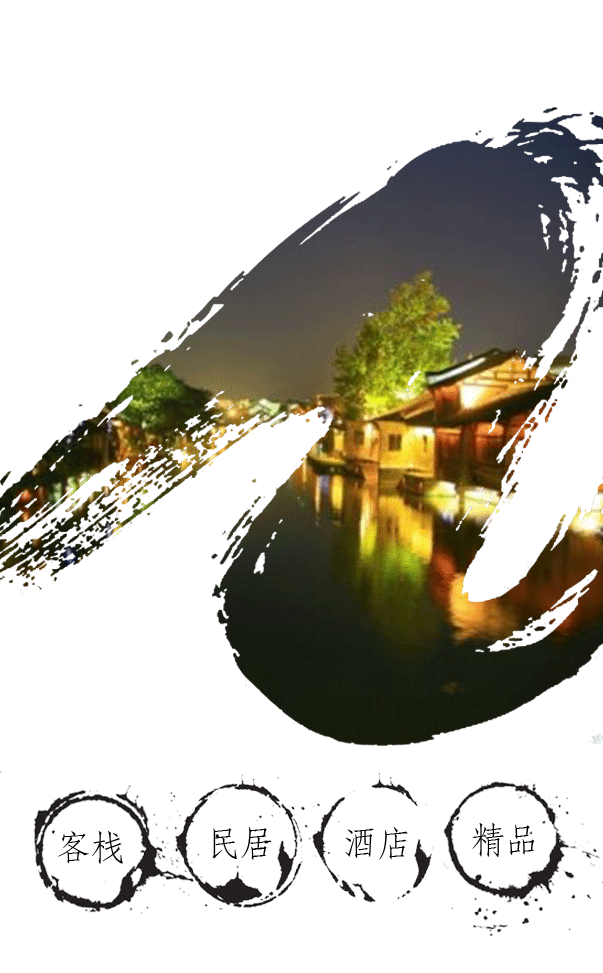
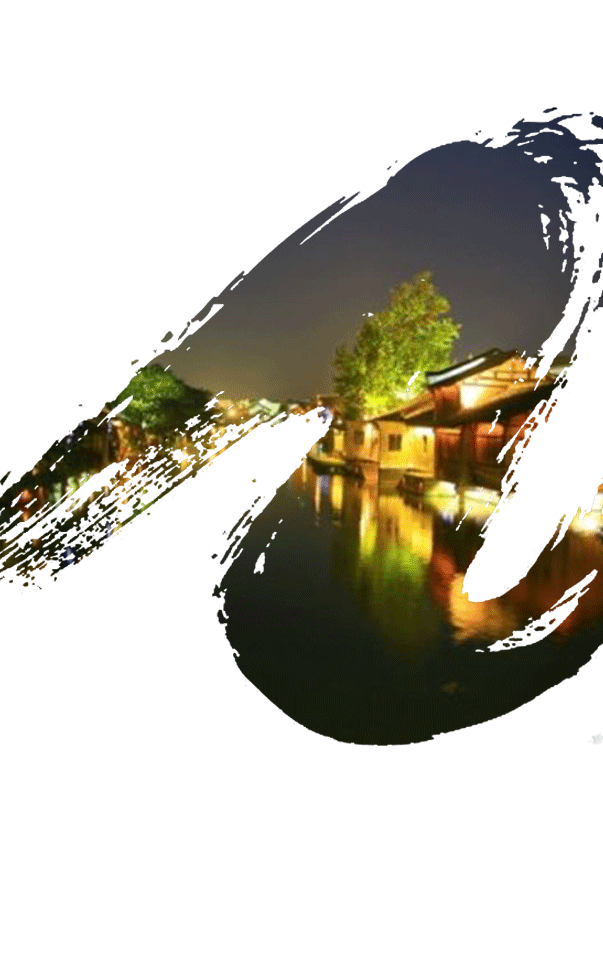
polish the stay
nearly the final page; with smooth animation; and bug fix;

diff --git a/css/style.css b/css/style.css
@@ -1,1 +1,1 @@
-body,ul{margin:0;padding:0}hr{border-color:#ccc;color:#ccc}.container{width:95%;margin:auto}.video-thumb{margin-bottom:15px;width:100%;min-height:140px;background:seagreen;position:relative;padding:0}.video-thumb .ui-icon-video{position:absolute;left:50%;top:50px;margin:10px -15px}.flat-card-list .flat-card{background:#fff;-webkit-box-shadow:0 0 8px #999;-moz-box-shadow:0 0 8px #999;box-shadow:0 0 8px #999;padding:15px;margin-bottom:15px}.flat-card-list .flat-card .name{margin:0 0 5px;color:#666}.flat-card-list .flat-card .des{font-size:12px;color:#999;margin:5px 0}.thumb-list .thumb-item{padding:5px 0;margin:0;clear:both}.thumb-list .thumb-item .thumbnail{width:20%;float:left}.thumb-list .thumb-item .info{padding:5px 10px;float:left;width:50%}.thumb-list .thumb-item .info .title{color:deepskyblue;font-size:14px;margin:0 0 3px}.thumb-list .thumb-item .info .location,.thumb-list .thumb-item .info .comment,.thumb-list .thumb-item .info .des{color:#999;font-size:10px;margin:2px 0}.thumb-list .thumb-item .price{float:left;width:23%;text-align:right}.thumb-list .thumb-item .price .number{font-size:30px;color:darkred}.thumb-list .thumb-item .price .appendix{font-size:10px;color:gray}.thumb-list .thumb-item .price .addon{font-size:10px;color:forestgreen}.nav-dot{opacity:0;-webkit-transition:all 1s;-moz-transition:all 1s;-ms-transition:all 1s;-o-transition:all 1s;transition:all 1s;-webkit-transform:scale(0.2);-moz-transform:scale(0.2);-ms-transform:scale(0.2);-o-transform:scale(0.2);transform:scale(0.2)}.nav-dot.active{opacity:1;-webkit-transform:scale(1);-moz-transform:scale(1);-ms-transform:scale(1);-o-transform:scale(1);transform:scale(1)}.nav-center{opacity:0;-webkit-transition:all 1s;-moz-transition:all 1s;-ms-transition:all 1s;-o-transition:all 1s;transition:all 1s;-webkit-transform:scale(1.2);-moz-transform:scale(1.2);-ms-transform:scale(1.2);-o-transform:scale(1.2);transform:scale(1.2)}.nav-center.active{opacity:1;-webkit-transform:scale(1);-moz-transform:scale(1);-ms-transform:scale(1);-o-transform:scale(1);transform:scale(1)}.place{margin-bottom:12%}.buy-button-div{float:right;margin-right:10%;margin-top:-4%;margin-bottom:4%}.buy-button,.buy-button:hover,.buy-button:visited,.buy-button:active{font-family:"华文仿宋","宋体",serif;font-size:1em;color:white!important;font-weight:normal!important;background-color:black;width:200px;height:50px;padding:8px 30px;text-decoration:none;text-shadow:none;border-radius:25px;z-index:999}.buy-button:hover{cursor:pointer}.master,.master-img{background:#f6f6f6 center no-repeat;position:absolute;top:0;bottom:0;left:0;right:0;height:100%}.master-img{background-size:100% auto;display:none}
+body,ul{margin:0;padding:0}body{background:#f6f6f6}hr{border-color:#ccc;color:#ccc}.container{width:95%;margin:auto}.video-thumb{margin-bottom:15px;width:100%;min-height:140px;background:seagreen;position:relative;padding:0}.video-thumb .ui-icon-video{position:absolute;left:50%;top:50px;margin:10px -15px}.flat-card-list .flat-card{background:#fff;-webkit-box-shadow:0 0 8px #999;-moz-box-shadow:0 0 8px #999;box-shadow:0 0 8px #999;padding:15px;margin-bottom:15px}.flat-card-list .flat-card .name{margin:0 0 5px;color:#666}.flat-card-list .flat-card .des{font-size:12px;color:#999;margin:5px 0}.thumb-list .thumb-item{padding:5px 0;margin:0;clear:both}.thumb-list .thumb-item .thumbnail{width:20%;float:left}.thumb-list .thumb-item .info{padding:5px 10px;float:left;width:50%}.thumb-list .thumb-item .info .title{color:deepskyblue;font-size:14px;margin:0 0 3px}.thumb-list .thumb-item .info .location,.thumb-list .thumb-item .info .comment,.thumb-list .thumb-item .info .des{color:#999;font-size:10px;margin:2px 0}.thumb-list .thumb-item .price{float:left;width:23%;text-align:right}.thumb-list .thumb-item .price .number{font-size:30px;color:darkred}.thumb-list .thumb-item .price .appendix{font-size:10px;color:gray}.thumb-list .thumb-item .price .addon{font-size:10px;color:forestgreen}.nav-dot{opacity:0;-webkit-transition:all 1s;-moz-transition:all 1s;-ms-transition:all 1s;-o-transition:all 1s;transition:all 1s;-webkit-transform:scale(0.2);-moz-transform:scale(0.2);-ms-transform:scale(0.2);-o-transform:scale(0.2);transform:scale(0.2)}.nav-dot.active{opacity:1;-webkit-transform:scale(1);-moz-transform:scale(1);-ms-transform:scale(1);-o-transform:scale(1);transform:scale(1)}.nav-center{opacity:0;-webkit-transition:all 1s;-moz-transition:all 1s;-ms-transition:all 1s;-o-transition:all 1s;transition:all 1s;-webkit-transform:scale(1.2);-moz-transform:scale(1.2);-ms-transform:scale(1.2);-o-transform:scale(1.2);transform:scale(1.2)}.nav-center.active{opacity:1;-webkit-transform:scale(1);-moz-transform:scale(1);-ms-transform:scale(1);-o-transform:scale(1);transform:scale(1)}.place{margin-bottom:12%}.buy-button-div{float:right;margin-right:10%;margin-top:-4%;margin-bottom:4%}.buy-button,.buy-button:hover,.buy-button:visited,.buy-button:active{font-family:"华文仿宋","宋体",serif;font-size:1em;color:white!important;font-weight:normal!important;background-color:black;width:200px;height:50px;padding:8px 30px;text-decoration:none;text-shadow:none;border-radius:25px;z-index:999}.buy-button:hover{cursor:pointer}.master,.master-img{background:#f6f6f6 center no-repeat;position:absolute;top:0;bottom:0;left:0;right:0;height:100%}.master-img{background-size:100% auto;display:none}.cover{position:absolute;top:0;right:0;left:0;bottom:0;background:0;background-size:100px 100px}.stay-nav-wrapper{position:absolute;bottom:0;left:0;right:0;height:110px;width:100%;margin-left:10px;clear:both}.stay-nav-wrapper .stay-nav{float:left;width:25%;height:110px;display:block;background-size:400% auto!important;background-repeat:no-repeat!important}

diff --git a/css/style.less b/css/style.less
@@ -3,6 +3,10 @@ body, ul {
   padding: 0;
 }
 
+body {
+  background: #f6f6f6;
+}
+
 hr {
   border-color: #cccccc;
   color: #cccccc;
@@ -179,4 +183,33 @@ hr {
 .master-img {
   background-size: 100% auto;
   display: none;
+}
+
+.cover {
+  position: absolute;
+  top: 0;
+  right: 0;
+  left: 0;
+  bottom: 0;
+  background: none;
+  background-size: 100px 100px;
+}
+
+.stay-nav-wrapper {
+  position: absolute;
+  bottom: 0;
+  left: 0;
+  right: 0;
+  height: 110px;
+  width: 100%;
+  margin-left: 10px;
+  clear: both;
+  .stay-nav {
+    float: left;
+    width: 25%;
+    height: 110px;
+    display: block;
+    background-size: 400% auto !important;
+    background-repeat: no-repeat !important;
+  }
 }

diff --git a/js/main.js b/js/main.js
@@ -1,0 +1,3 @@
+/**
+ * Created by lhc on 12/2/15.
+ */

diff --git a/application/views/stay/index.php b/application/views/stay/index.php
@@ -28,106 +28,43 @@
         display: none;
     }
 </style>
-<div style="background: url('<?= base_url('img/basic-bg.jpg') ?>') center no-repeat; background-size: 100% auto; position: absolute; top: 0; bottom: 0; left: 0; right: 0">
-    <div>
-        <img src="<?= base_url('img/stay/stay_logo.png') ?>" alt="" style="width: 40%; margin: 20px 15px;"/>
-        <a href="<?= site_url('home') ?>">
-        <img class="shzj-logo" src="<?= base_url('img/shzj.png') ?>" alt="诗画浙江" style="width: 25%; float: right; margin: 10px;"/>
-        </a>
-    </div>
-    <div class="container">
-        <div class="video-thumb">
-            <img src="<?= base_url('img/stay/stay_banner.png') ?>" alt="" style="width: 100%;"/>
-        </div>
-        <div class="thumb-list">
-            <div class="thumb-item">
-                <img class="thumbnail" src="<?= base_url('img/stay/stay1.png') ?>" alt=""/>
-                <div class="info">
-                    <h4 class="title">乌镇测试住宅</h4>
-                    <p class="location">XXX小区内</p>
-                    <p class="comment">123 / test</p>
-                    <p class="des">南尖岩位于监督法了解对方垃圾感觉地方分上减肥撒开飞机撒娇福建犯困睡觉啊福建省风飒风</p>
-                </div>
-                <div class="price">
-                    <span class="appendix">$</span><strong class="number">108</strong><span class="appendix"> 起</span>
-                    <br/>
-                    <span class="addon">特别优惠噢噢噢噢噢</span>
-                </div>
-            </div>
-            <div class="thumb-item">
-                <img class="thumbnail" src="<?= base_url('img/stay/stay2.png') ?>" alt=""/>
-                <div class="info">
-                    <h4 class="title">乌镇测试住宅2</h4>
-                    <p class="location">XXX小区内</p>
-                    <p class="comment">123 / test</p>
-                    <p class="des">南尖岩位于监督法了解对方垃圾感觉地方分上减肥撒开飞机撒娇福建犯困睡觉啊福建省风飒风</p>
-                </div>
-                <div class="price">
-                    <span class="appendix">$</span><strong class="number">80</strong><span class="appendix"> 起</span>
-                    <br/>
-                    <span class="addon">特别优惠噢噢噢噢噢</span>
-                </div>
-            </div>
-            <div class="thumb-item">
-                <img class="thumbnail" src="<?= base_url('img/stay/stay1.png') ?>" alt=""/>
-                <div class="info">
-                    <h4 class="title">乌镇测试住宅</h4>
-                    <p class="location">XXX小区内</p>
-                    <p class="comment">123 / test</p>
-                    <p class="des">南尖岩位于监督法了解对方垃圾感觉地方分上减肥撒开飞机撒娇福建犯困睡觉啊福建省风飒风</p>
-                </div>
-                <div class="price">
-                    <span class="appendix">$</span><strong class="number">78</strong><span class="appendix"> 起</span>
-                    <br/>
-                    <span class="addon">特别优惠噢噢噢噢噢</span>
-                </div>
-            </div>
-            <div class="thumb-item">
-                <img class="thumbnail" src="<?= base_url('img/stay/stay2.png') ?>" alt=""/>
-                <div class="info">
-                    <h4 class="title">乌镇测试住宅2</h4>
-                    <p class="location">XXX小区内</p>
-                    <p class="comment">123 / test</p>
-                    <p class="des">南尖岩位于监督法了解对方垃圾感觉地方分上减肥撒开飞机撒娇福建犯困睡觉啊福建省风飒风</p>
-                </div>
-                <div class="price">
-                    <span class="appendix">$</span><strong class="number">67</strong><span class="appendix"> 起</span>
-                    <br/>
-                    <span class="addon">特别优惠噢噢噢噢噢</span>
-                </div>
-            </div>
-        </div>
-    </div>
-</div>
-<div class="cover" style="position: absolute; top: 0; right: 0; left: 0; bottom: 0; background: url('<?= base_url('img/basic-bg.jpg') ?>') #f6f6f6 center no-repeat; background-size: 100% auto;">
+<div class="cover" style="background: url('<?= base_url('img/stay/stay_cover.jpg') ?>') center; background-size: 100% auto;">
     <div>
         <img src="<?= base_url('img/stay/stay_logo.png') ?>" alt="" style="width: 40%; margin: 20px 15px;"/>
         <a href="<?= site_url('home') ?>">
         <img src="<?= base_url('img/shzj.png') ?>" alt="诗画浙江" style="width: 25%; float: right; margin: 10px;"/>
         </a>
     </div>
-    <img src="<?= base_url('img/stay/stay_cover.png') ?>" alt="" style="width: 100%; position: absolute; bottom: 0;"/>
+    <img src="" alt="" style="width: 100%; position: absolute; top: 0;"/>
+    <div class="stay-nav-wrapper">
+        <a class="stay-nav" href="<?= site_url('stay/detail') ?>" style="background: url('<?= base_url('img/stay/stay-nav.png') ?>') 0 0;"></a>
+        <a class="stay-nav" href="<?= site_url('stay/detail') ?>" style="background: url('<?= base_url('img/stay/stay-nav.png') ?>') 33% 0;"></a>
+        <a class="stay-nav" href="<?= site_url('stay/detail') ?>" style="background: url('<?= base_url('img/stay/stay-nav.png') ?>') 66% 0;"></a>
+        <a class="stay-nav" href="<?= site_url('stay/detail') ?>" style="background: url('<?= base_url('img/stay/stay-nav.png') ?>') 99% 0;"></a>
+    </div>
 </div>
+<img id="erase-img" src="<?= base_url('img/stay/stay_cover2.jpg') ?>" alt="" style="display: none"/>
 <div class="box" id="bb">
-    <canvas id="cas" width="414" height="736"></canvas>
+    <canvas id="cas" width="1080" height="1920"></canvas>
 </div>
-<script>
-    $('.cover').on('click', function (){
-        $(this).fadeOut(500);
-    });
-</script>
-<script type="text/javascript" charset="utf-8">
+<script type="text/javascript">
+
     var canvas = document.getElementById("cas"),ctx = canvas.getContext("2d");
     var x1,y1,a=30,timeout,totimes = 100,jiange = 30;
     canvas.width = document.getElementById("bb").clientWidth;
     canvas.height = document.getElementById("bb").clientHeight;
-    var img = new Image();
-    img.src = "<?= base_url('img/stay/stay_cover2.jpg') ?>";
+    var img = document.getElementById("erase-img");
     img.onload = function(){
-        ctx.drawImage(img,0,0,canvas.width,canvas.height)
+        ctx.drawImage(img,0,0,canvas.width,canvas.height);
         //ctx.fillRect(0,0,canvas.width,canvas)
         tapClip()
     };
+
+    function enter_scene() {
+        $('#bb').fadeOut(500, function () {
+            $(this).remove()
+        })
+    }
 
     //通过修改globalCompositeOperation来达到擦除的效果
     function tapClip(){
@@ -169,9 +106,8 @@
                             }
                         }
                     }
-                    if(dd/(imgData.width*imgData.height/(jiange*jiange))<0.4){
-                        canvas.className = "noOp";
-                        canvas.parentNode.className = "noOp"
+                    if(dd/(imgData.width*imgData.height/(jiange*jiange))<0.35){
+                        enter_scene()
                     }
                 },totimes)
             });
@@ -185,7 +121,7 @@
                 ctx.moveTo(x1,y1);
                 ctx.lineTo(x2,y2);
                 ctx.stroke();
-                ctx.restore()
+                ctx.restore();
 
                 x1 = x2;
                 y1 = y2;
@@ -229,9 +165,8 @@
                             }
                         }
                     }
-                    if(dd/(imgData.width*imgData.height/(jiange*jiange))<0.4){
-                        canvas.className = "noOp";
-                        canvas.parentNode.className = "noOp"
+                    if(dd/(imgData.width*imgData.height/(jiange*jiange))<0.35){
+                        enter_scene()
                     }
                 },totimes)
 

diff --git a/application/views/stay/detail.php b/application/views/stay/detail.php
@@ -1,0 +1,71 @@
+<div class="cover">
+    <div>
+        <img src="<?= base_url('img/stay/stay_logo.png') ?>" alt="" style="width: 40%; margin: 20px 15px;"/>
+        <a href="<?= site_url('home') ?>">
+        <img class="shzj-logo" src="<?= base_url('img/shzj.png') ?>" alt="诗画浙江" style="width: 25%; float: right; margin: 10px;"/>
+        </a>
+    </div>
+    <div class="container">
+        <div class="video-thumb">
+            <img src="<?= base_url('img/stay/stay_banner.png') ?>" alt="" style="width: 100%;"/>
+        </div>
+        <div class="thumb-list">
+            <div class="thumb-item">
+                <img class="thumbnail" src="<?= base_url('img/stay/stay1.png') ?>" alt=""/>
+                <div class="info">
+                    <h4 class="title">乌镇测试住宅</h4>
+                    <p class="location">XXX小区内</p>
+                    <p class="comment">123 / test</p>
+                    <p class="des">南尖岩位于监督法了解对方垃圾感觉地方分上减肥撒开飞机撒娇福建犯困睡觉啊福建省风飒风</p>
+                </div>
+                <div class="price">
+                    <span class="appendix">$</span><strong class="number">108</strong><span class="appendix"> 起</span>
+                    <br/>
+                    <span class="addon">特别优惠噢噢噢噢噢</span>
+                </div>
+            </div>
+            <div class="thumb-item">
+                <img class="thumbnail" src="<?= base_url('img/stay/stay2.png') ?>" alt=""/>
+                <div class="info">
+                    <h4 class="title">乌镇测试住宅2</h4>
+                    <p class="location">XXX小区内</p>
+                    <p class="comment">123 / test</p>
+                    <p class="des">南尖岩位于监督法了解对方垃圾感觉地方分上减肥撒开飞机撒娇福建犯困睡觉啊福建省风飒风</p>
+                </div>
+                <div class="price">
+                    <span class="appendix">$</span><strong class="number">80</strong><span class="appendix"> 起</span>
+                    <br/>
+                    <span class="addon">特别优惠噢噢噢噢噢</span>
+                </div>
+            </div>
+            <div class="thumb-item">
+                <img class="thumbnail" src="<?= base_url('img/stay/stay1.png') ?>" alt=""/>
+                <div class="info">
+                    <h4 class="title">乌镇测试住宅</h4>
+                    <p class="location">XXX小区内</p>
+                    <p class="comment">123 / test</p>
+                    <p class="des">南尖岩位于监督法了解对方垃圾感觉地方分上减肥撒开飞机撒娇福建犯困睡觉啊福建省风飒风</p>
+                </div>
+                <div class="price">
+                    <span class="appendix">$</span><strong class="number">78</strong><span class="appendix"> 起</span>
+                    <br/>
+                    <span class="addon">特别优惠噢噢噢噢噢</span>
+                </div>
+            </div>
+            <div class="thumb-item">
+                <img class="thumbnail" src="<?= base_url('img/stay/stay2.png') ?>" alt=""/>
+                <div class="info">
+                    <h4 class="title">乌镇测试住宅2</h4>
+                    <p class="location">XXX小区内</p>
+                    <p class="comment">123 / test</p>
+                    <p class="des">南尖岩位于监督法了解对方垃圾感觉地方分上减肥撒开飞机撒娇福建犯困睡觉啊福建省风飒风</p>
+                </div>
+                <div class="price">
+                    <span class="appendix">$</span><strong class="number">67</strong><span class="appendix"> 起</span>
+                    <br/>
+                    <span class="addon">特别优惠噢噢噢噢噢</span>
+                </div>
+            </div>
+        </div>
+    </div>
+</div>

diff --git a/application/controllers/stay.php b/application/controllers/stay.php
@@ -1,13 +1,18 @@
 <?php if ( ! defined('BASEPATH')) exit('No direct script access allowed');
 
 class Stay extends CI_Controller {
-
 	public function index()
 	{
 		$this->load->view('inc/header');
         $this->load->view('stay/index');
         $this->load->view('inc/footer');
 	}
+    public function detail()
+    {
+        $this->load->view('inc/header');
+        $this->load->view('stay/detail');
+        $this->load->view('inc/footer');
+    }
 }
 
 /* End of file welcome.php */

diff --git a/application/views/inc/footer.php b/application/views/inc/footer.php
@@ -1,2 +1,3 @@
+<script type="text/javascript" src="<?= base_url('js/main.js') ?>"></script>
 </body>
 </html>
